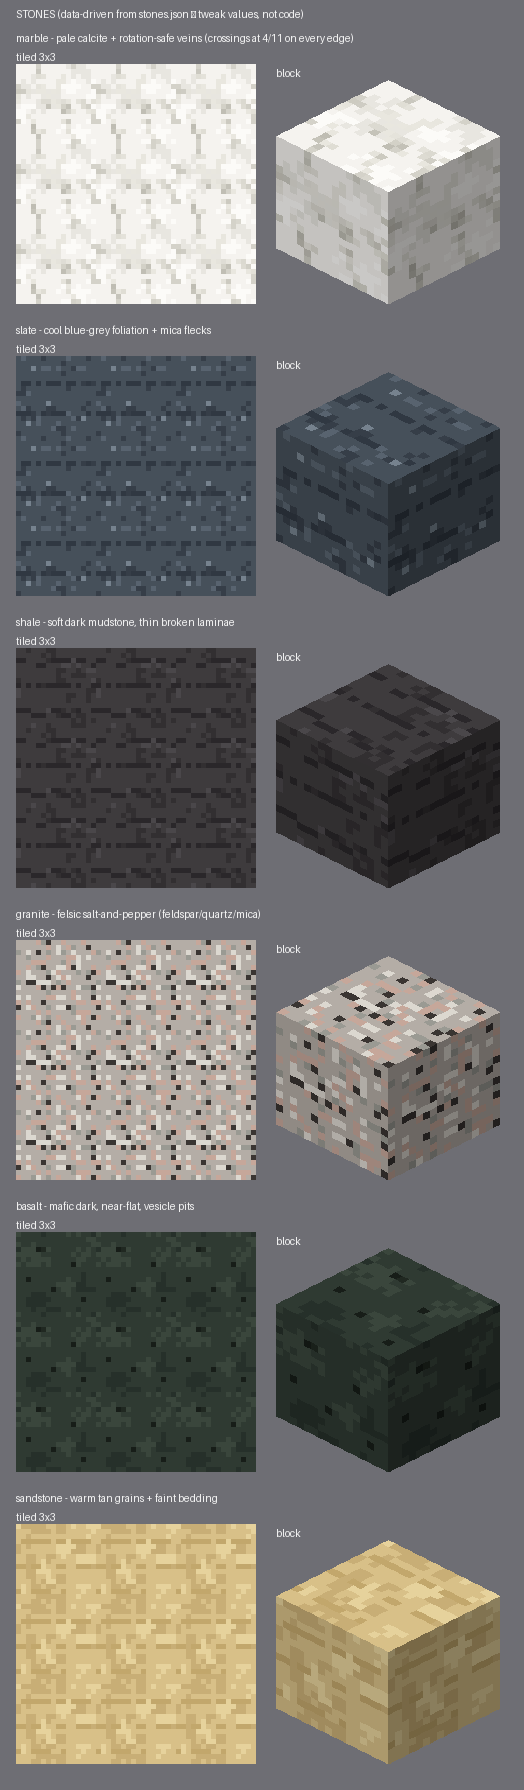
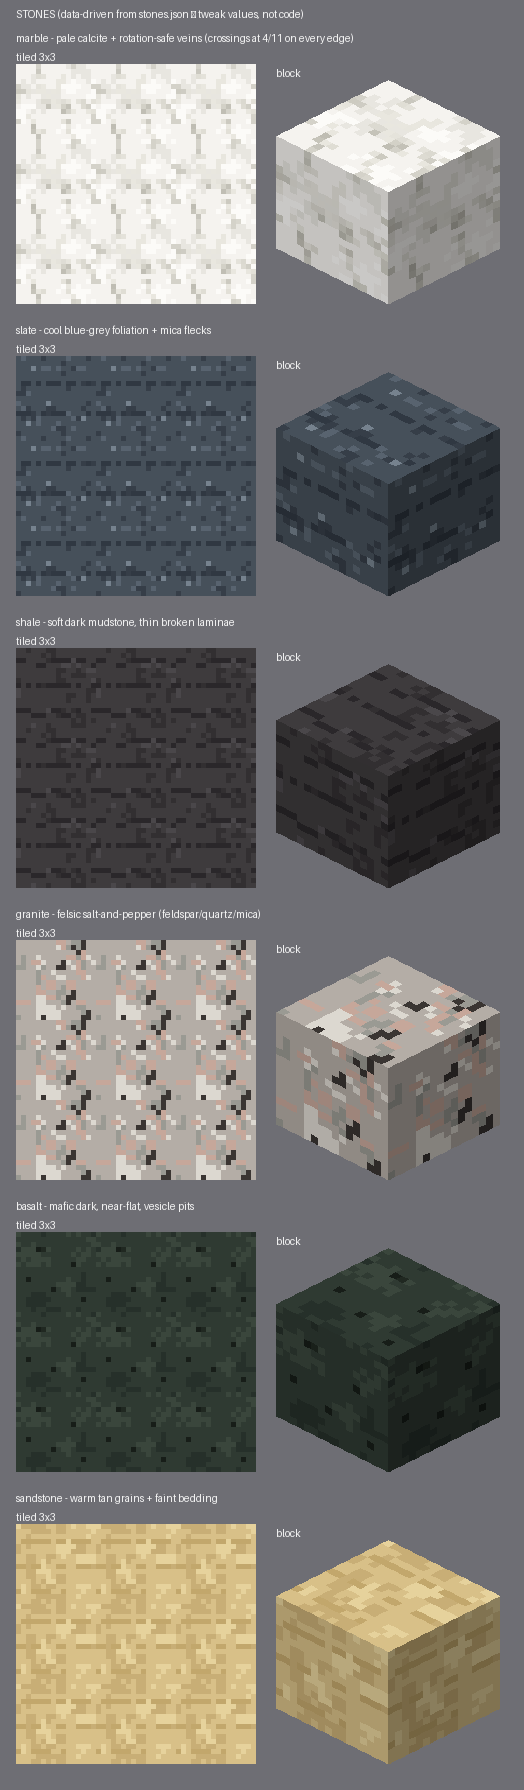
mc-style: cycle 3 — cluster granite mineral grains (kill last per-pixel static)

Changed region(s): [[0.0305, 0.5223, 0.4885, 0.676], [0.5191, 0.5223, 0.9771, 0.676]]

diff --git a/gallery/2026-07-21-stone-practice/src/stonegen.py b/gallery/2026-07-21-stone-practice/src/stonegen.py
@@ -69,10 +69,11 @@ def fill_base(px, spec):
 
 def apply_minerals(px, spec):
     seed = spec.get("seed", 1)
+    cell = spec.get("mineral_cluster", spec.get("cluster", 0))   # cluster grains, not per-pixel static
     minerals = [(hexc(m["color"]), m["p"]) for m in spec.get("minerals", [])]
     for y in range(N):
         for x in range(N):
-            g = h2(x, y, seed + 5)
+            g = _cluster_val(x, y, seed + 5, cell) if cell else h2(x, y, seed + 5)
             acc = 0.0
             for color, p in minerals:
                 acc += p
